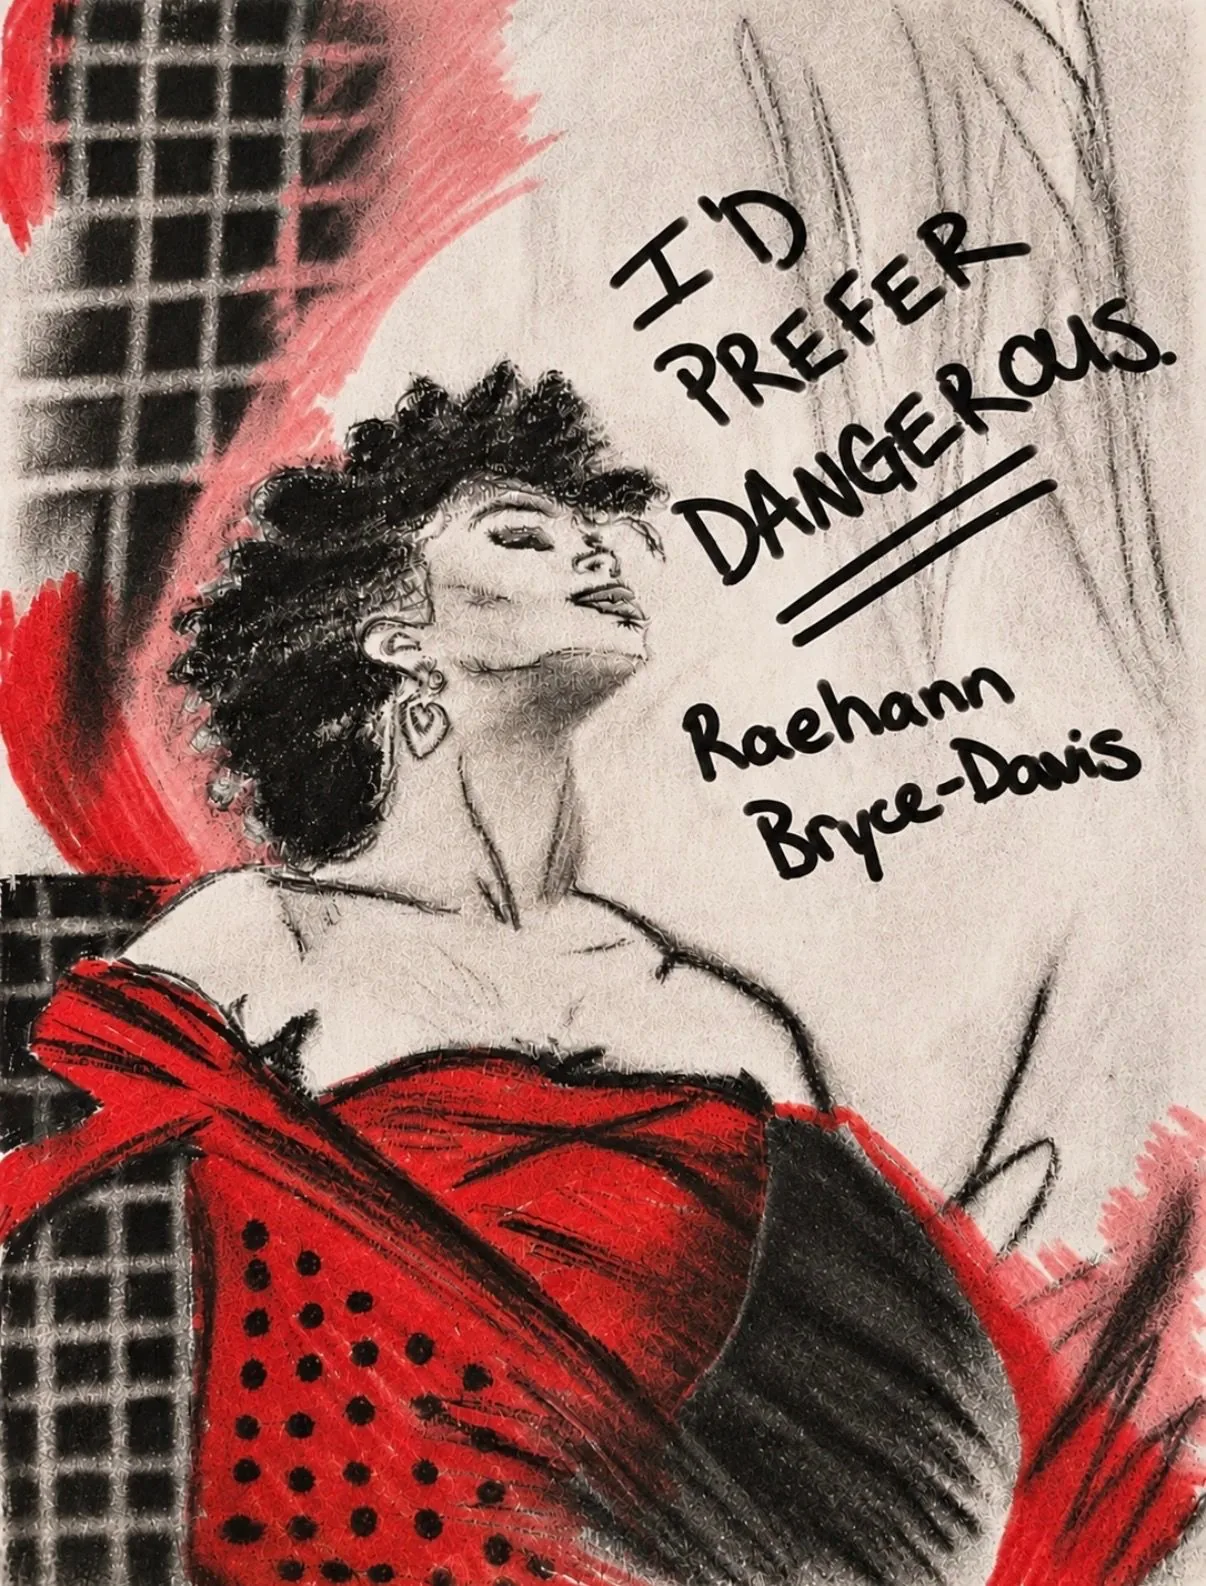
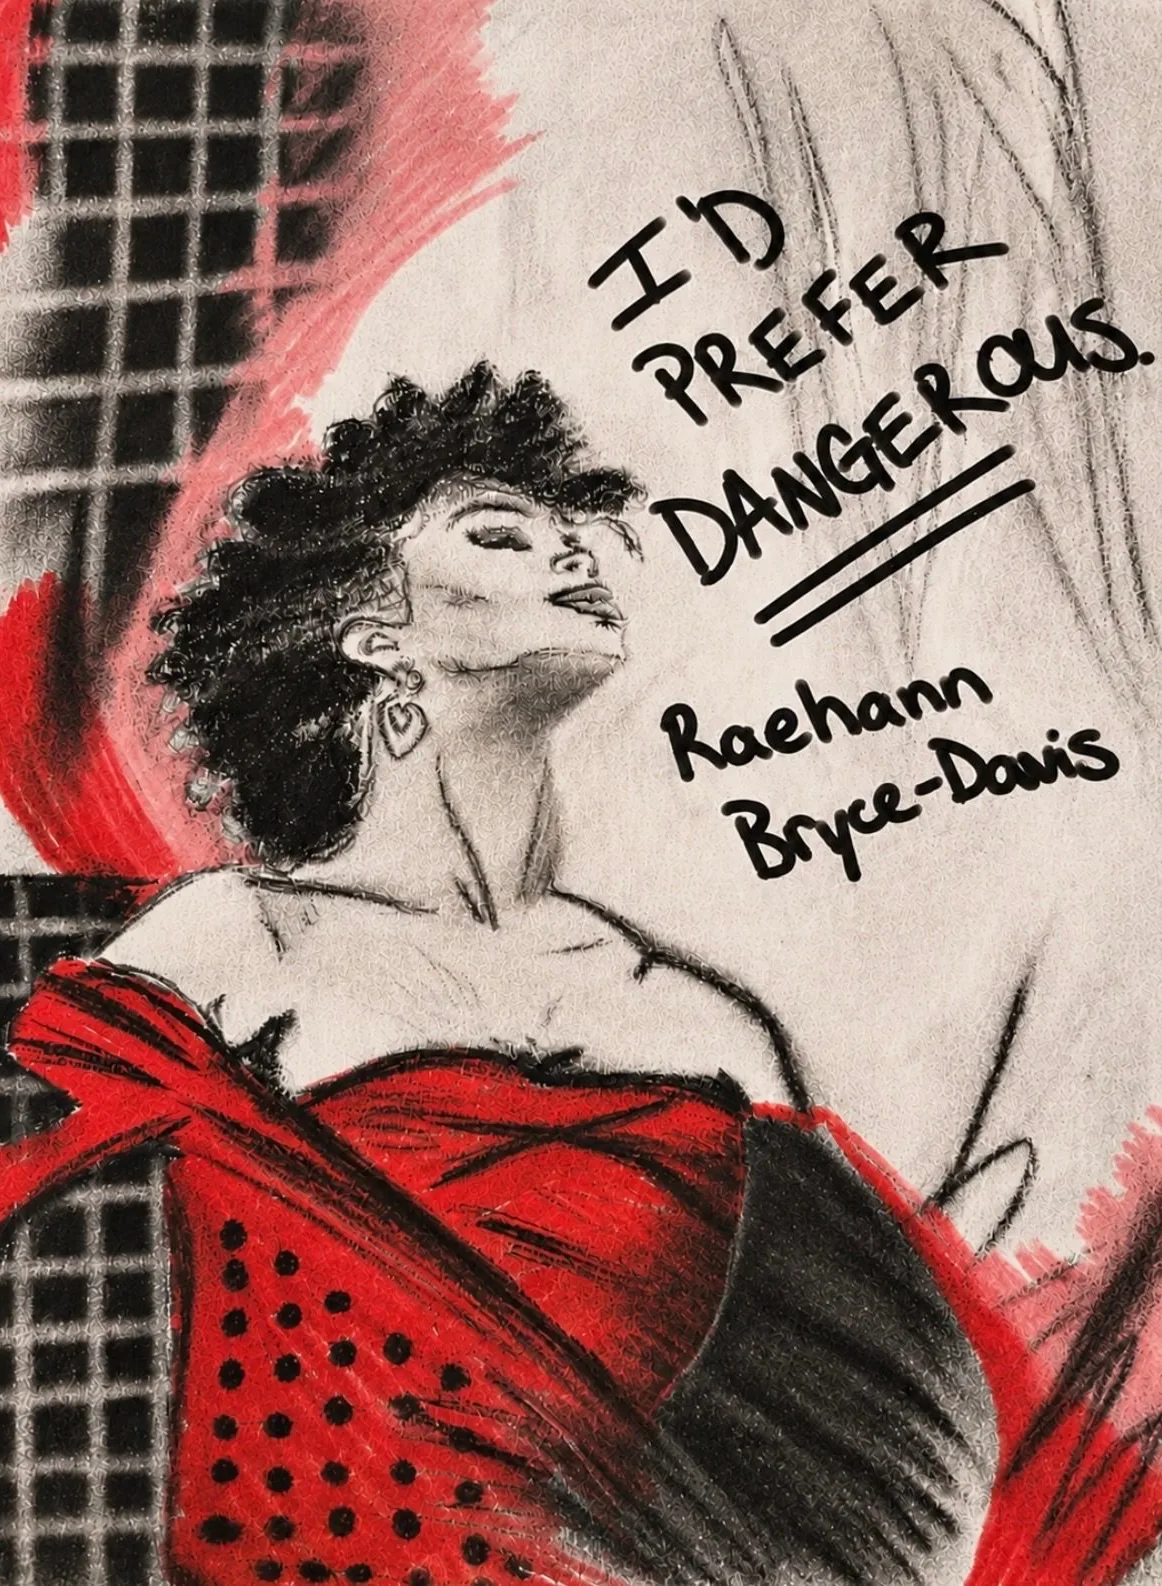
Crop '03 Diva' to match Fleming/DiDonato tile size

diff --git a/content/artworks.ts b/content/artworks.ts
@@ -99,7 +99,7 @@ export const artworks: Artwork[] = [
     medium: "Mixed media",
     note: "“I’d prefer dangerous.”",
     image: "/art/bryce-davis.webp",
-    width: 1206,
+    width: 1162,
     height: 1586,
     alt: "Mixed-media illustration of a mezzo-soprano with dark curls and a heart-drop earring, chin lifted, in an off-the-shoulder red dress with polka dots against black checkerboard and red brushwork; the hand-lettered words “I’d prefer dangerous.” and the name Raehann Bryce-Davis fill the upper right.",
     collection: "Illustrations",
